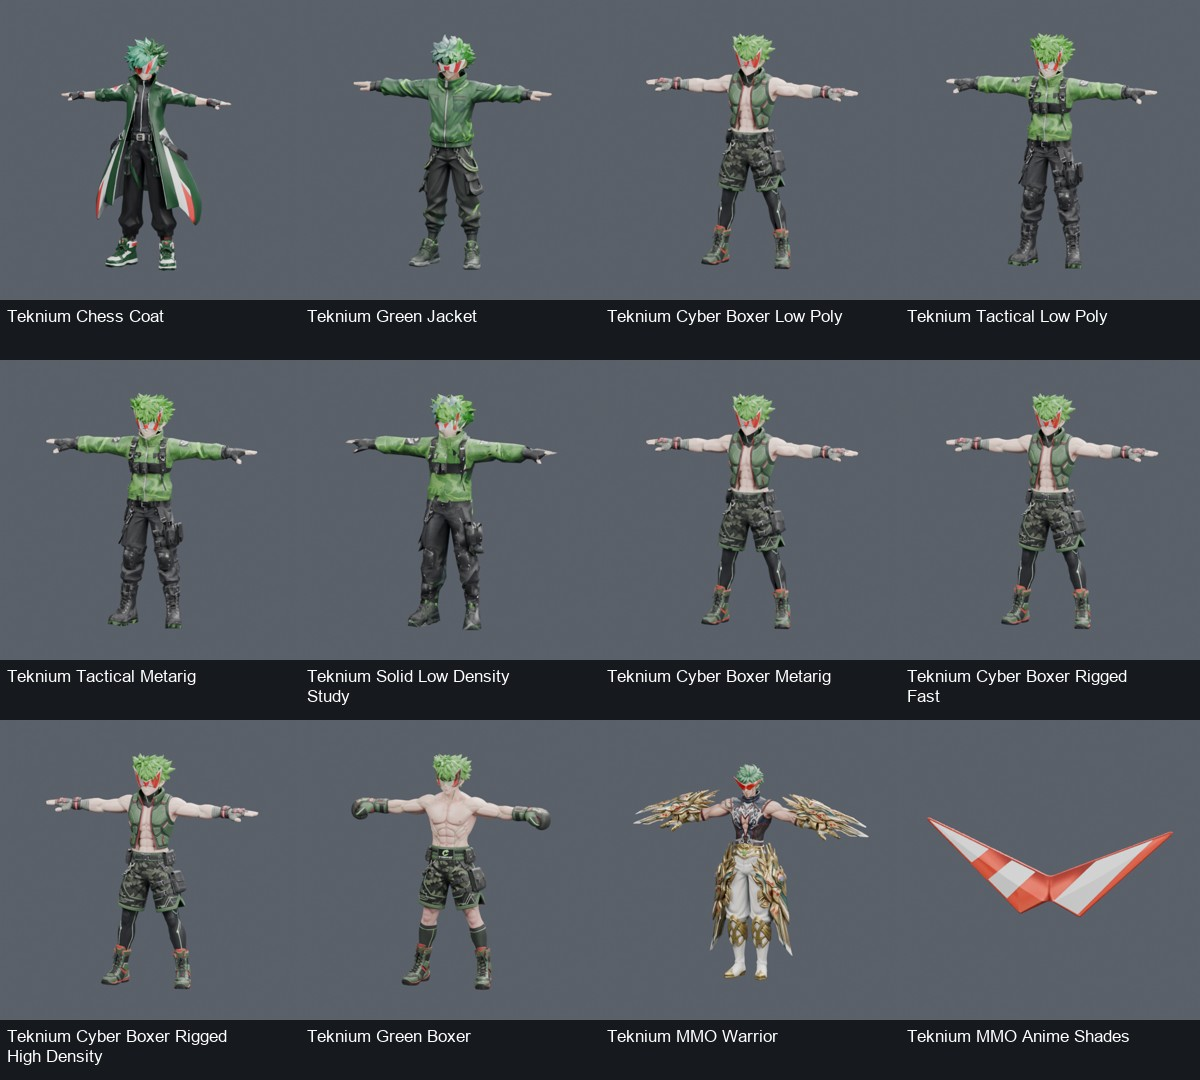
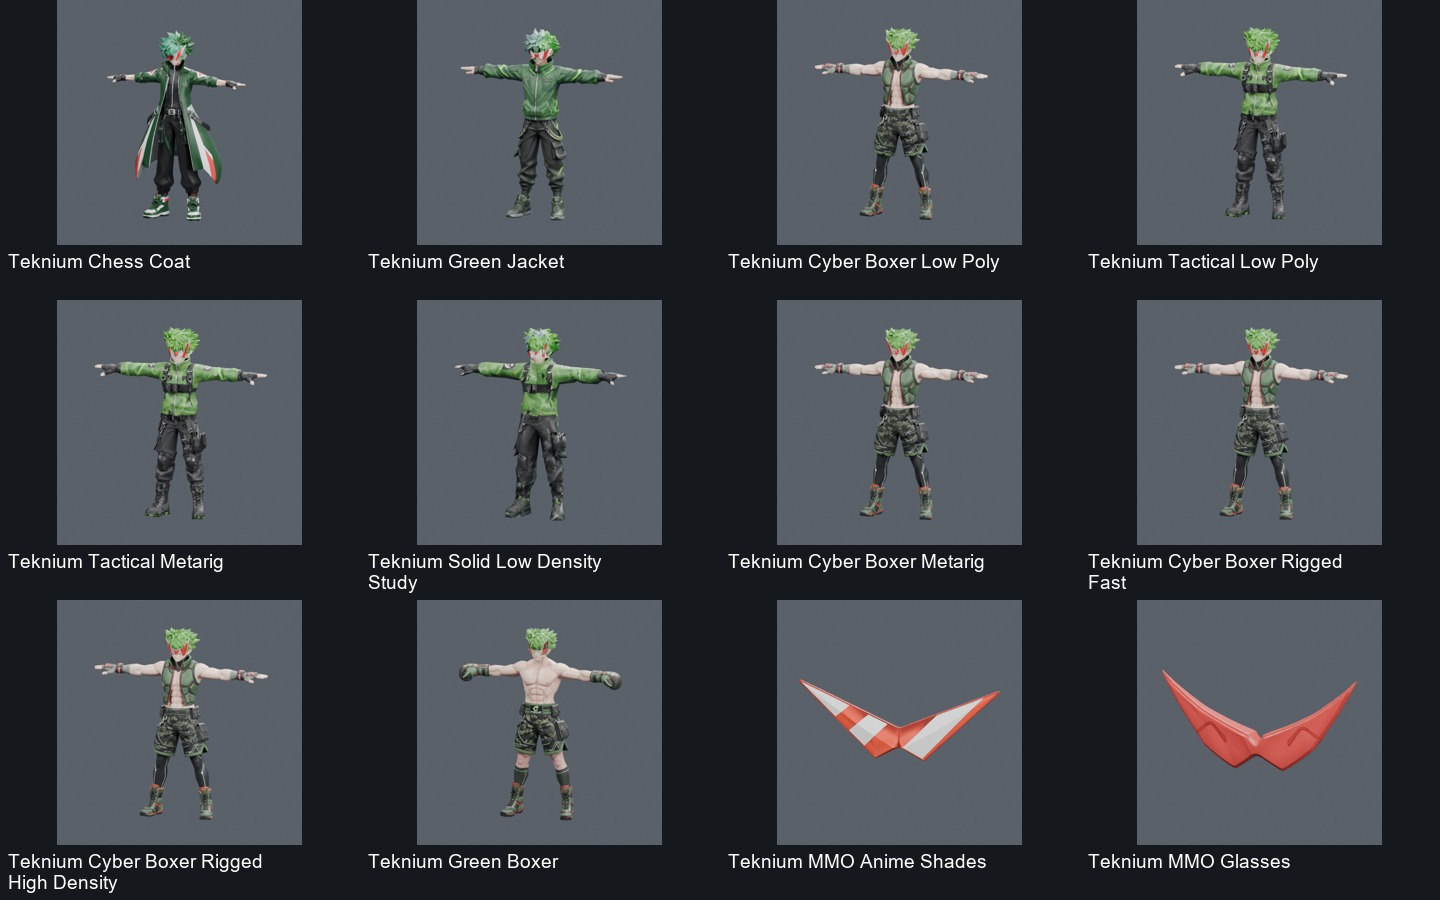
Remove MMO Body and Warrior from character downloads

diff --git a/characters/README.md b/characters/README.md
@@ -1,6 +1,6 @@
 # Community characters — model-only Blender catalog
 
-**46 individual .blend downloads; 25 base character identities.** Teknium appears once in that base roster and has additional skins/rig alternatives: **11 discovered full-body skin families represented by 18 full-body files**, plus **4 separate modular components**. These are not 46 different characters or 22 different Teknium skins.
+**44 individual .blend downloads; 25 base character identities.** Teknium appears once in that base roster and has additional skins/rig alternatives: **10 discovered full-body skin families represented by 17 full-body files**, plus **3 separate modular components**. These are not 44 different characters or 20 different Teknium skins.
 
 [Download release](https://github.com/123mikeyd/hermes-community-care-package/releases/tag/characters-v0.1.1) · [Getting started](GETTING_STARTED.md) · [Machine-readable catalog](catalog.json) · [Checksums](SHA256SUMS) · [Scoped notice](NOTICE.md)
 
@@ -10,7 +10,7 @@ All files are **model-only**, saved in native rest display with packed textures.
 
 ## Arts Bro — masked rig addition
 
-The new masked Arts Bro is included with his existing bound 66-bone rig and three packed 4K maps. The original 45 downloads remain in [v0.1.0](https://github.com/123mikeyd/hermes-community-care-package/releases/tag/characters-v0.1.0); v0.1.1 adds only Arts Bro and refreshed catalog documents. Old files and release attachments were not replaced.
+The new masked Arts Bro is included with his existing bound 66-bone rig and three packed 4K maps. The remaining 43 earlier downloads remain in [v0.1.0](https://github.com/123mikeyd/hermes-community-care-package/releases/tag/characters-v0.1.0); v0.1.1 adds only Arts Bro and refreshed catalog documents. The MMO Body and MMO Warrior character downloads have been withdrawn; other model files are unchanged.
 
 <img src="thumbnails/arts-bro.png" width="360" alt="Arts Bro full-body masked rig"> <img src="thumbnails/arts-bro-mask-detail.png" width="360" alt="Arts Bro native mask detail">
 
@@ -62,9 +62,7 @@ The new masked Arts Bro is included with his existing bound 66-bone rig and thre
 | <img src="thumbnails/teknium-cyber-boxer-rigged-fast.png" width="120" alt="Teknium Cyber Boxer Rigged Fast"> | **Teknium Cyber Boxer Rigged Fast**<br>Cyber Boxer<br>Existing Rigify controls retained; embedded UI script omitted. Dense and fast alternatives are one skin, not extra characters. | 51,266 vertices<br>102,803 triangles | 706 bones.<br>Bound native rig; sampled deformation responds; rough weights, not production animation acceptance. | [.blend](https://github.com/123mikeyd/hermes-community-care-package/releases/download/characters-v0.1.0/teknium-cyber-boxer-rigged-fast.blend)<br>37.8 MiB |
 | <img src="thumbnails/teknium-cyber-boxer-rigged-high-density.png" width="120" alt="Teknium Cyber Boxer Rigged High Density"> | **Teknium Cyber Boxer Rigged High Density**<br>Cyber Boxer<br>Existing Rigify controls retained; embedded UI script omitted. Dense and fast alternatives are one skin, not extra characters. | 513,887 vertices<br>1,028,045 triangles | 706 bones.<br>Bound native rig; sampled deformation responds; rough weights, not production animation acceptance. | [.blend](https://github.com/123mikeyd/hermes-community-care-package/releases/download/characters-v0.1.0/teknium-cyber-boxer-rigged-high-density.blend)<br>142.6 MiB |
 | <img src="thumbnails/teknium-green-boxer.png" width="120" alt="Teknium Green Boxer"> | **Teknium Green Boxer**<br>Green Boxer<br> | 450,569 vertices<br>901,321 triangles | 0 bones.<br>Unrigged static mesh; no armature. | [.blend](https://github.com/123mikeyd/hermes-community-care-package/releases/download/characters-v0.1.0/teknium-green-boxer.blend)<br>102.3 MiB |
-| <img src="thumbnails/teknium-mmo-warrior.png" width="120" alt="Teknium MMO Warrior"> | **Teknium MMO Warrior**<br>MMO Warrior<br>Full warrior model; other MMO entries are separate components, not four extra characters. | 731,748 vertices<br>1,463,836 triangles | 0 bones.<br>Unrigged static mesh; no armature. | [.blend](https://github.com/123mikeyd/hermes-community-care-package/releases/download/characters-v0.1.0/teknium-mmo-warrior.blend)<br>154.3 MiB |
 | <img src="thumbnails/teknium-mmo-anime-shades.png" width="120" alt="Teknium MMO Anime Shades"> | **Teknium MMO Anime Shades**<br>Modular MMO component<br>Standalone modular component, not a full character. Head and glasses stay separate; no automatic assembly. | 27,146 vertices<br>54,288 triangles | 0 bones.<br>Unrigged static mesh; no armature. | [.blend](https://github.com/123mikeyd/hermes-community-care-package/releases/download/characters-v0.1.0/teknium-mmo-anime-shades.blend)<br>23.7 MiB |
-| <img src="thumbnails/teknium-mmo-body.png" width="120" alt="Teknium MMO Body"> | **Teknium MMO Body**<br>Modular MMO component<br>Standalone modular component, not a full character. Head and glasses stay separate; no automatic assembly. | 394,989 vertices<br>789,987 triangles | 0 bones.<br>Unrigged static mesh; no armature. | [.blend](https://github.com/123mikeyd/hermes-community-care-package/releases/download/characters-v0.1.0/teknium-mmo-body.blend)<br>91.9 MiB |
 | <img src="thumbnails/teknium-mmo-glasses.png" width="120" alt="Teknium MMO Glasses"> | **Teknium MMO Glasses**<br>Modular MMO component<br>Standalone modular component, not a full character. Head and glasses stay separate; no automatic assembly. | 94,114 vertices<br>188,224 triangles | 0 bones.<br>Unrigged static mesh; no armature. | [.blend](https://github.com/123mikeyd/hermes-community-care-package/releases/download/characters-v0.1.0/teknium-mmo-glasses.blend)<br>31.7 MiB |
 | <img src="thumbnails/teknium-mmo-head.png" width="120" alt="Teknium MMO Head"> | **Teknium MMO Head**<br>Modular MMO component<br>Standalone modular component, not a full character. Head and glasses stay separate; no automatic assembly. | 528,904 vertices<br>1,057,860 triangles | 0 bones.<br>Unrigged static mesh; no armature. | [.blend](https://github.com/123mikeyd/hermes-community-care-package/releases/download/characters-v0.1.0/teknium-mmo-head.blend)<br>105.4 MiB |
 | <img src="thumbnails/teknium-pokemon-bound-rig.png" width="120" alt="Teknium Pokemon Bound Rig"> | **Teknium Pokemon Bound Rig**<br>Pokemon Hero<br>Same mesh/UV/packed image bytes as the older unbound Pokemon alternative, with an existing bound 24-bone rig. | 217,253 vertices<br>434,641 triangles | 24 bones.<br>Bound native rig; sampled deformation responds; rough weights, not production animation acceptance. | [.blend](https://github.com/123mikeyd/hermes-community-care-package/releases/download/characters-v0.1.0/teknium-pokemon-bound-rig.blend)<br>68.8 MiB |
@@ -81,6 +79,6 @@ Every file was freshly reopened in background Blender 5.2. Geometry/topology/UV/
 
 ## Skin inventory and duplicate handling
 
-Classic Chess Coat, Green Jacket (descriptive label), Cyber Boxer, Tactical, Green Boxer, MMO Warrior, Pokemon Hero, Burgundy Charcoal, Midnight Violet, Emerald Forest, and Tangerine Eggshell are the discovered full-body families. Rigged/unrigged and high/low-density alternatives remain separate downloads but not extra skins. Tactical and Cyber Boxer metarigs are unbound; the older Pokemon metarig is likewise unbound, while its separate bound-rig alternative deforms. MMO Body, Head, Glasses and Anime Shades are components, not four finished characters. The former generic game-character entry is represented only once as tdamre.
+Classic Chess Coat, Green Jacket (descriptive label), Cyber Boxer, Tactical, Green Boxer, Pokemon Hero, Burgundy Charcoal, Midnight Violet, Emerald Forest, and Tangerine Eggshell are the discovered full-body families. Rigged/unrigged and high/low-density alternatives remain separate downloads but not extra skins. Tactical and Cyber Boxer metarigs are unbound; the older Pokemon metarig is likewise unbound, while its separate bound-rig alternative deforms. MMO Head, Glasses and Anime Shades are components, not three finished characters. The former generic game-character entry is represented only once as tdamre.
 
 Discovery covered the parade/Fans/crew catalogs, the studio navigation index, the older Toy Box catalog, the active Legends costume configuration and all four referenced palettes, the Tek skin studies, Tek Boxer sources, Shadow Dock Pokemon integration, and modular MMO source. Animation-only revisions and vehicle/prop files were not counted as skins. This is the discovered, source-backed set—not a claim that no other artwork exists elsewhere.

diff --git a/characters/GETTING_STARTED.md b/characters/GETTING_STARTED.md
@@ -18,7 +18,7 @@ Files open with armatures in **Rest Position** for neutral model inspection. To 
 
 ## Picking a variant
 
-The same skin can have rigged, unrigged, metarig, high-density or low-density alternatives. These are not different characters. Pokemon Teknium's bound-rig file and older unbound-metarig file share the same native mesh/UV/packed-image data. Cyber Boxer has high-density, fast and low-poly alternatives. MMO Head, Body, Glasses and Anime Shades are separate components; they have not been merged, rigged or automatically fitted into a new assembly.
+The same skin can have rigged, unrigged, metarig, high-density or low-density alternatives. These are not different characters. Pokemon Teknium's bound-rig file and older unbound-metarig file share the same native mesh/UV/packed-image data. Cyber Boxer has high-density, fast and low-poly alternatives. MMO Head, Glasses and Anime Shades are separate components; they have not been merged, rigged or automatically fitted into a new assembly.
 
 Some models are very dense; check the per-file vertex/triangle counts and sizes. No collision shapes, LOD system, gameplay moves, game compatibility or optimized engine budget is promised.
 

diff --git a/README.md b/README.md
@@ -6,7 +6,7 @@ A community toy box from Mike: editable art to experiment with, plus a small God
 
 ## Choose your starting point
 
-- **[Browse individual characters and Teknium skins](characters/README.md)** — 46 model-only Blender downloads: 25 base character identities, source-backed Teknium skin/rig alternatives and separate modular parts. No inherited animation clips.
+- **[Browse individual characters and Teknium skins](characters/README.md)** — 44 model-only Blender downloads: 25 base character identities, source-backed Teknium skin/rig alternatives and separate modular parts. No inherited animation clips.
 
 - **[Browse the illustrated Toy Box catalog](toy-box/README.md)** — individual Blender downloads, tested GLB exports where available, geometry counts and honest readiness notes.
 - **[New to the assets? Start here](toy-box/GETTING_STARTED.md)** — opening files, appending one object, and choosing a first experiment.
